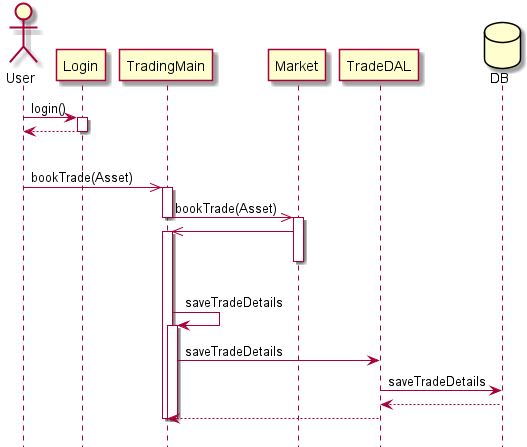
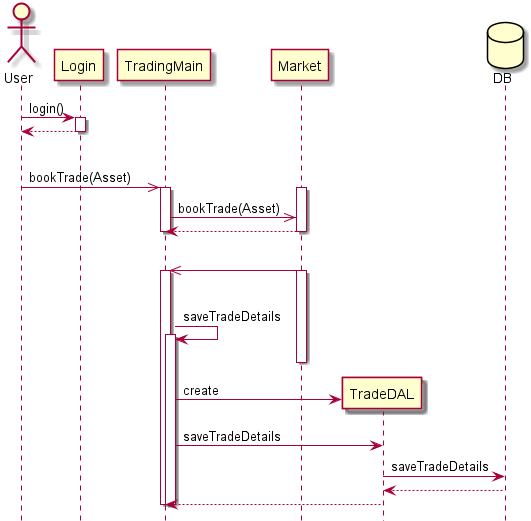
Adding sequence

diff --git a/uml/sequence-diagrams/README.md b/uml/sequence-diagrams/README.md
@@ -1,3 +1,11 @@
 # UML Sequence Diagrams
-## Summary
-## Class
+Where class diagrams provide a high level view of the structure of classes and their relationships, sequence diagrams provide a view into their interactions.
+
+A sequence diagram consists of a series of parallel vertical "lifelines", representing the classes or other processes comprising the interactions of the system. Method calls or "messages" are represented as horizontal lines connecting the caller to the called object. The message line is usually annotated with the method name, and optionally the call parameters and return type.
+
+For example:  
+![](resources/synchronous-call.png)  
+In this sequwence, an instance of the class TradingMain is making a call to the method `saveTradeDetails` on an instance of the class TradeDAL (DAL stands for "Data Access Layer", a common programming paradigm for making database calls.) Then the methods returns, as indicated by the return arrow.
+
+
+
